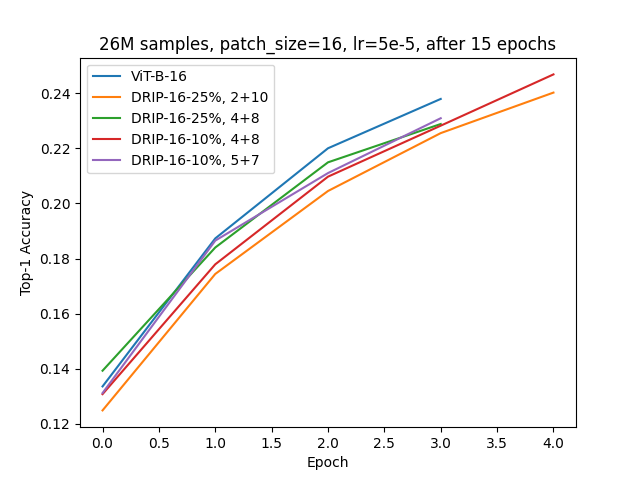
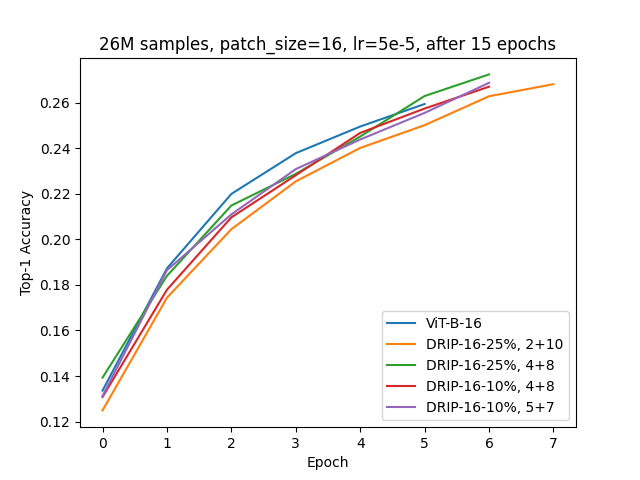
finally good results for ViT training on ImageNet

diff --git a/src/task1_imagenet.py b/src/task1_imagenet.py
@@ -303,7 +303,7 @@ def finetuning_DTP_ViT():
     print("⭐" * 20)
 
 def train_DTP_ViT_from_scratch():
-    BATCH_SIZE = 512
+    BATCH_SIZE = 256
     EPOCHS = 300
     #LR = 5e-5
     #LR = 3e-3 # same as ViT
@@ -321,11 +321,14 @@ def train_DTP_ViT_from_scratch():
         compression_rate = 0.25
     elif compression == "10x":
         compression_rate = 0.1
+
+    RESOLUTION = 384
     
     _, preprocess_train, preprocess_val = create_model_and_transforms(
         model_name="ViT-B-16",
         pretrained=None,
-        DTP_ViT=False
+        DTP_ViT=False,
+        force_image_size=RESOLUTION   # 🔹 this sets both model + preprocess to 384×384
     )
 
     train_root = "/fs/scratch/PAS2836/yusenpeng_dataset/train"
@@ -352,11 +355,11 @@ def train_DTP_ViT_from_scratch():
                             num_workers=8, pin_memory=True, persistent_workers=True)
 
     empty_backbone = DTPViT(
-            image_size=224,
+            image_size=RESOLUTION,
             patch_size=patch_size,
             embed_dim=768,
             num_heads=12,
-            depth=(2, 10, 0),
+            depth=(4, 8, 0),
             mlp_ratio=4.0,
             drop_rate=0.0,
             attn_drop_rate=0.1,
@@ -456,7 +459,7 @@ def train_DTP_ViT_from_scratch():
 
 
 def train_ViT_from_scratch():
-    BATCH_SIZE = 512
+    BATCH_SIZE = 256
     #EPOCHS = 100 
     EPOCHS = 300 # from the paper
     #LR = 5e-5
@@ -467,11 +470,13 @@ def train_ViT_from_scratch():
     torch.cuda.set_device(local_rank)
     DEVICE = torch.device(f"cuda:{local_rank}")
 
-
+    RESOLUTION = 384
+    
     backbone, preprocess_train, preprocess_val = create_model_and_transforms(
         model_name="ViT-B-16",
         pretrained=None,
-        DTP_ViT=False
+        DTP_ViT=False,
+        force_image_size=RESOLUTION   # 🔹 this sets both model + preprocess to 384×384
     )
 
     train_root = "/fs/scratch/PAS2836/yusenpeng_dataset/train"
@@ -506,7 +511,7 @@ def train_ViT_from_scratch():
                             num_workers=8, pin_memory=True, persistent_workers=True)
 
     criterion = nn.CrossEntropyLoss()
-    optimizer = torch.optim.AdamW(model.parameters(), lr=LR, weight_decay=0.3) # from the paper
+    optimizer = torch.optim.AdamW(model.parameters(), lr=LR, weight_decay=0.3) # 0.3 from the paper
     total_steps = len(train_loader) * EPOCHS
     warmup_steps = int(0.05 * total_steps)  # 5% warmup
 

diff --git a/src/task1_newcodebase.py b/src/task1_newcodebase.py
@@ -1046,6 +1046,8 @@ def main(args):
 
     init_distributed_mode(args)
     print(args)
+    print(f"args.train_crop_size: {args.train_crop_size}", flush=True)
+    print(f"args.val_crop_size: {args.val_crop_size}", flush=True)
 
     device = torch.device(args.device)
 
@@ -1237,8 +1239,9 @@ def get_args_parser(add_help=True):
     parser.add_argument("--data-path", default="/fs/scratch/PAS2836/yusenpeng_dataset/", type=str, help="dataset path")
     parser.add_argument("--model", default="resnet18", type=str, help="model name")
     parser.add_argument("--device", default="cuda", type=str, help="device (Use cuda or cpu Default: cuda)")
+    #### we need a smaller batch size for higher resolution
     parser.add_argument(
-        "-b", "--batch-size", default=32, type=int, help="images per gpu, the total batch size is $NGPU x batch_size"
+        "-b", "--batch-size", default=16, type=int, help="images per gpu, the total batch size is $NGPU x batch_size"
     )
     parser.add_argument("--epochs", default=90, type=int, metavar="N", help="number of total epochs to run")
     parser.add_argument(
@@ -1345,11 +1348,12 @@ def get_args_parser(add_help=True):
     parser.add_argument(
         "--val-resize-size", default=256, type=int, help="the resize size used for validation (default: 256)"
     )
+    ### HIGHER image resolution (384 instead of 224)
     parser.add_argument(
-        "--val-crop-size", default=224, type=int, help="the central crop size used for validation (default: 224)"
+        "--val-crop-size", default=384, type=int, help="the central crop size used for validation (default: 224)"
     )
     parser.add_argument(
-        "--train-crop-size", default=224, type=int, help="the random crop size used for training (default: 224)"
+        "--train-crop-size", default=384, type=int, help="the random crop size used for training (default: 224)"
     )
     parser.add_argument("--clip-grad-norm", default=None, type=float, help="the maximum gradient norm (default None)")
     parser.add_argument("--ra-sampler", action="store_true", help="whether to use Repeated Augmentation in training")

diff --git a/src/ImageNet_acc_vis.py b/src/ImageNet_acc_vis.py
@@ -66,6 +66,7 @@ def main():
         #'DRIP-16-25%, 2+10, 5e-4': 'less_aggressive_DRIP_2_10.txt',
         #"DRIP-16-25%, 2+10, 5e-5": 'ImageNet_DRIP_2_10.txt',
         #"DRIP-16-25%, 4+8, 5e-5": 'ImageNet_DRIP_4_8.txt',
+        'ViT-B-16, 5e-4, 384x384': 'AUG_22_384_resolution_ViT.txt',
         'ViT-B-16 (new repo)': 'AUG_20_new_imagenet_codebase.txt',
     }
 

diff --git a/README.md b/README.md
@@ -136,21 +136,23 @@ Train with **15** epochs:
 
 ### train ViTs on ImageNet-1K (1.28M images)
 
-| model | dataset pretrained on | zero-shot | freeze the backbone? | epoch | classification accuracy |
-| ----- | --------------------- | -------------------- | ---------- | ----- | ----------------------- |
-| <tr><td colspan="6" align="center"> pretrained ViT </td></tr> |
-| ViT-B-32 | laion2b_s34b_b79k | 66.53% | yes | 30 | 🟢76.81% |
-| ViT-B-32 | laion2b_s34b_b79k | 66.53% | no | 30 | 🟠60.98% |
-| <tr><td colspan="6" align="center"> pretrained DRIP </td></tr> |
-| DRIP-2X-16 | 3 epochs of 280M LAION | **36.71%** | no | 100 | **🟢42.30%** |
-| | <tr><td colspan="6" align="center"> training from scratch </td></tr> |
-| ViT-B-16 | N/A | N/A | N/A | 100 | **27.56%** |
-| DRIP-2X-16, 4+8  | N/A | N/A | N/A | 100 | **42.31%** |
-| DRIP-2X-16, 2+10 | N/A | N/A | N/A | 100 | **34.88%** |
-| | <tr><td colspan="6" align="center"> different LR </td></tr> |
-| ViT-B-16, 3e-3 | N/A | N/A | N/A | 100 | **...** |
-| ViT-B-16, 5e-4 | N/A | N/A | N/A | 100 | **...** |
-| DRIP-2-10, 5e-4 | N/A | N/A | N/A | 100 | **...** |
+![alt text](docs/ViT_full_results.png)
+
+one reviewer's comment:
+
+*My major concern is that the pre-training conducted in this paper is fully supervised. This is different to BERT that ... would be great to explore self-supervised pre-training in the future as also pointed out by the authors.*
+
+Now, moving from 224x224 (**196** patches) to 384x384 (**576** patches):
+
+![alt text](docs/high_resolution.png)
+
+| model | pretraining config | finetuning config | accuracy | source/checkpoint |  
+| ----- | ------ | -- | -------- | ------ |
+| official ViT-B-16 | ? | ? | **77.91%** | [ViT](https://arxiv.org/pdf/2010.11929), [DynamicViT](https://arxiv.org/pdf/2106.02034) |
+| ViT-B-16 | no pretraining | 384x384, 5e-4, 300 epochs | **running** | **running** |
+| DRIP-4x-16, 4+8 | no pretraining | 384x384, 5e-4, 300 epochs | **running** | **running** |
+
+The new repo (from official Pytorch Github repository) FINALLY reached **72.628%** ImageNet accuracy:
 
 ![alt text](/ALL_ImageNet_acc_vis_16.png)
 

diff --git a/RELATED_WORK.md b/RELATED_WORK.md
@@ -484,3 +484,22 @@ else:
 | patch size = 32 | patch size = 16 |
 | --------------- | --------------- |
 | ![alt text](/acc_vis_32.png) | ![alt text](/acc_vis_16.png) |
+
+
+
+
+| model | dataset pretrained on | zero-shot | freeze the backbone? | epoch | classification accuracy |
+| ----- | --------------------- | -------------------- | ---------- | ----- | ----------------------- |
+| <tr><td colspan="6" align="center"> pretrained ViT </td></tr> |
+| ViT-B-32 | laion2b_s34b_b79k | 66.53% | yes | 30 | 🟢76.81% |
+| ViT-B-32 | laion2b_s34b_b79k | 66.53% | no | 30 | 🟠60.98% |
+| <tr><td colspan="6" align="center"> pretrained DRIP </td></tr> |
+| DRIP-2X-16 | 3 epochs of 280M LAION | **36.71%** | no | 100 | **🟢42.30%** |
+| | <tr><td colspan="6" align="center"> training from scratch </td></tr> |
+| ViT-B-16 | N/A | N/A | N/A | 100 | **27.56%** |
+| DRIP-2X-16, 4+8  | N/A | N/A | N/A | 100 | **42.31%** |
+| DRIP-2X-16, 2+10 | N/A | N/A | N/A | 100 | **34.88%** |
+| | <tr><td colspan="6" align="center"> different LR </td></tr> |
+| ViT-B-16, 3e-3 | N/A | N/A | N/A | 100 | **...** |
+| ViT-B-16, 5e-4 | N/A | N/A | N/A | 100 | **...** |
+| DRIP-2-10, 5e-4 | N/A | N/A | N/A | 100 | **...** |
